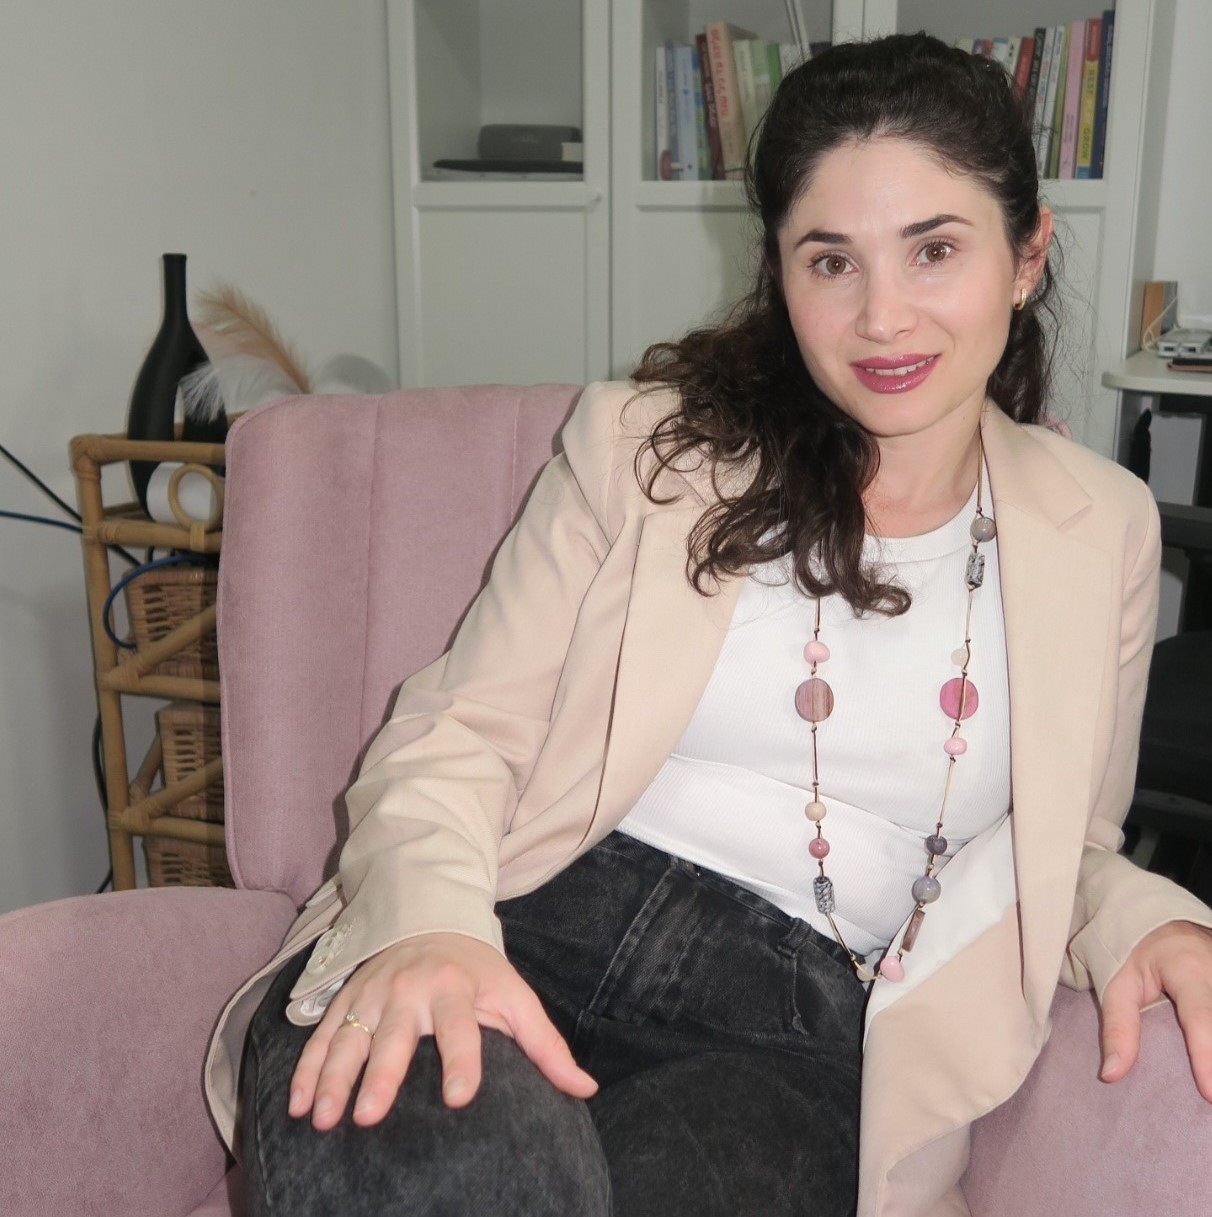
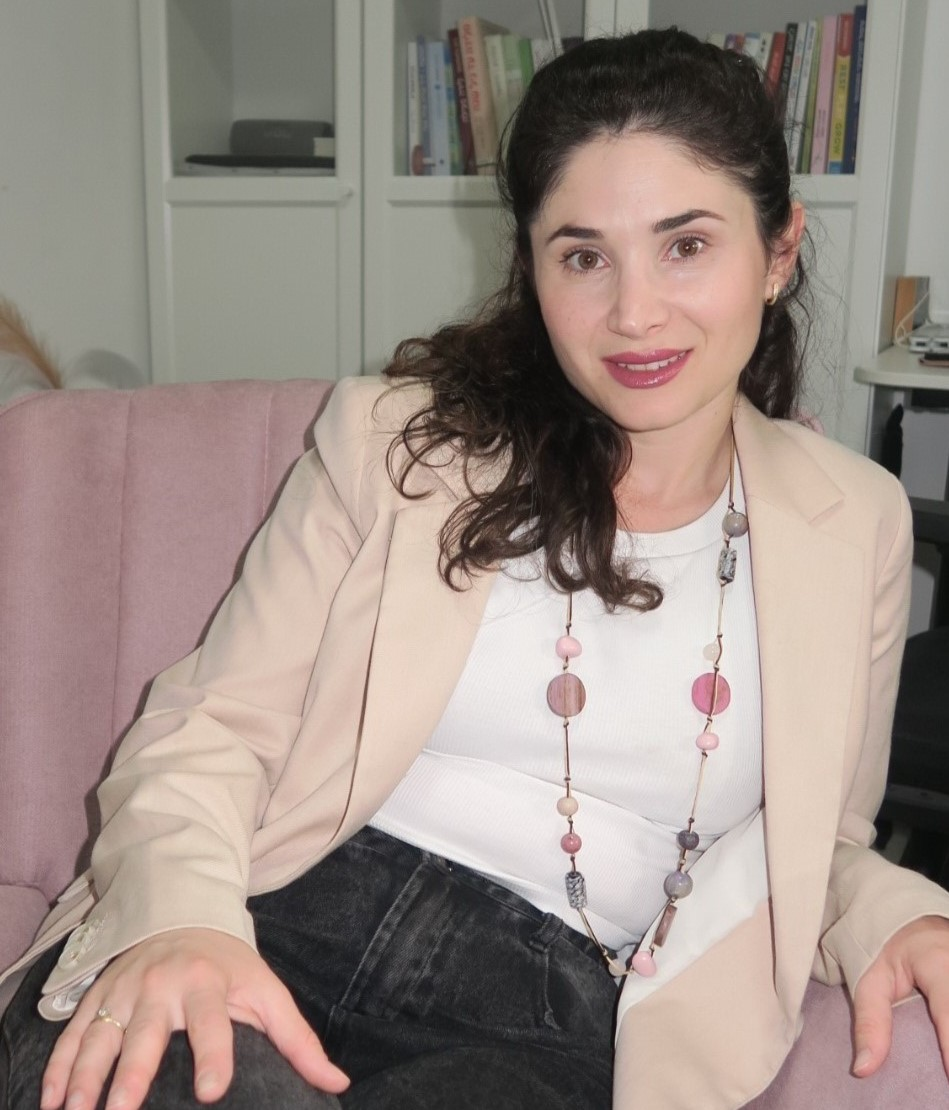
Change photo and redundant space

diff --git a/index.html b/index.html
@@ -875,21 +875,21 @@ html, body {
       <h2 class="text-3xl font-light gradient-text">יצירת קשר</h2>
       
       <!-- תמונה -->
-<img src="images/20250423142743.jpg" alt="אייקון יצירת קשר" class="h-44 w-44 object-cover" style="border-radius:10%" />
+<img src="images/20250423142743.jpg" alt="אייקון יצירת קשר" class="w-44 object-contain" style="border-radius:10%" />
       
       <!-- טקסט -->
       <div class="text-gray-600 text-lg">
         מרגיש שזה הזמן להתחיל תהליך?<br>
         <span class="block text-2xl font-bold text-black-600">בואו נדבר</span>
-        <span class="block mt-1 py-4">לשיחה ראשונית קצרה ובדיקת התאמה</span>
+        <span class="block mt-1">לשיחה ראשונית קצרה ובדיקת התאמה</span>
       </div>
       
     </div>
         
               
-                    <div class="space-y-6">
+                    <div class="space-y-6 py-4">
                         <div class="enhanced-card bg-white" data-aos="zoom-in" data-aos-once="true" data-aos-delay="100" data-aos-once="true">
-                            <div class="p-4 flex items-center gap-4">
+                            <div class="py-4 flex items-center gap-4">
                                 <div class="bg-blue-100 p-3 rounded-full">
                                     <svg class="w-5 h-5 text-blue-600" xmlns="http://www.w3.org/2000/svg" viewBox="0 0 24 24" fill="none" stroke="currentColor" stroke-width="2" stroke-linecap="round" stroke-linejoin="round">
                                         <path d="M22 16.92v3a2 2 0 0 1-2.18 2 19.79 19.79 0 0 1-8.63-3.07 19.5 19.5 0 0 1-6-6 19.79 19.79 0 0 1-3.07-8.67A2 2 0 0 1 4.11 2h3a2 2 0 0 1 2 1.72 12.84 12.84 0 0 0 .7 2.81 2 2 0 0 1-.45 2.11L8.09 9.91a16 16 0 0 0 6 6l1.27-1.27a2 2 0 0 1 2.11-.45 12.84 12.84 0 0 0 2.81.7A2 2 0 0 1 22 16.92z"/>
